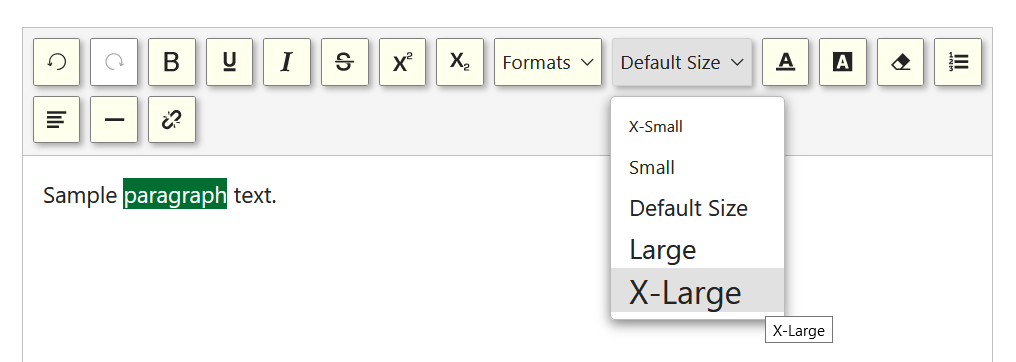
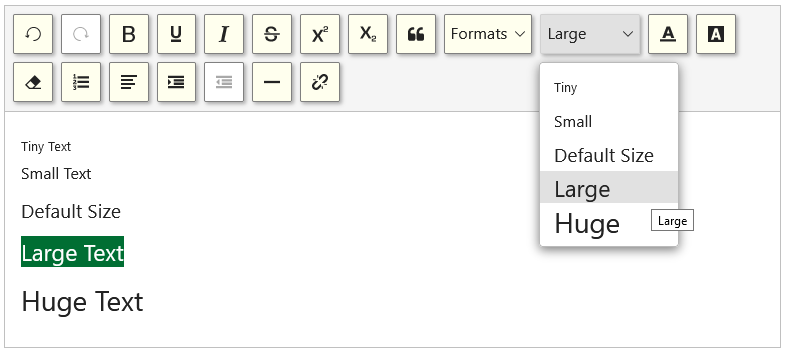
Changed the font size name in the customFontSize component.

diff --git a/components/customFontSize.js b/components/customFontSize.js
@@ -1,6 +1,6 @@
 const sizeList = [
     {
-        title: 'X-Small',
+        title: 'Tiny',
         size: 'var(--step--2)',
     },
     {
@@ -16,7 +16,7 @@ const sizeList = [
         size: 'var(--step-1)',
     },
     {
-        title: 'X-Large',
+        title: 'Huge',
         size: 'var(--step-2)',
     },
 ];

diff --git a/styles/suneditor.css b/styles/suneditor.css
@@ -1489,3 +1489,7 @@
 .sun-editor hr.__se__solid {
     border-style: solid none none;
 }
+
+.sun-editor .se-submenu.se-list-font-size .se-list-inner .se-list-basic li button.active:after {
+    content: '\2713';
+}
